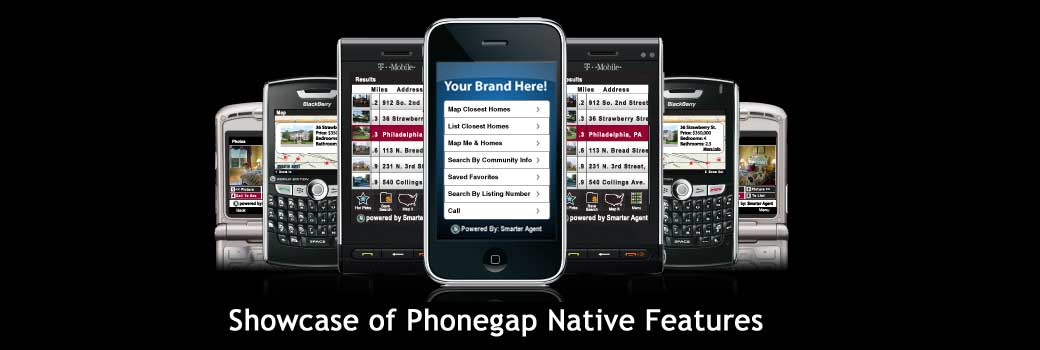
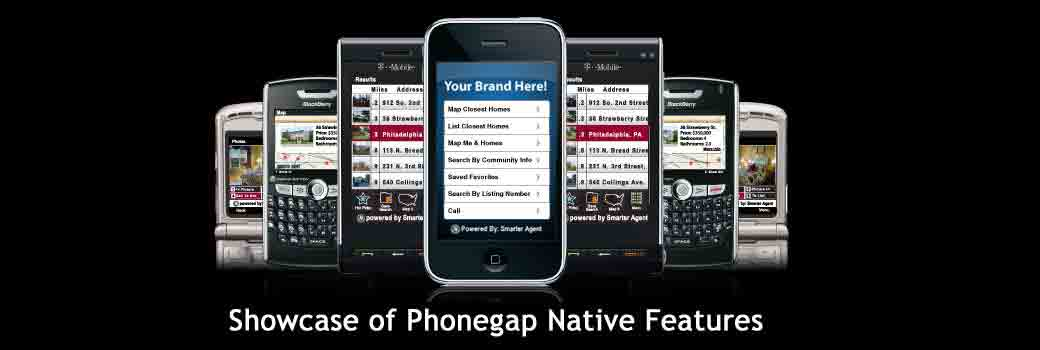
optimized images / fix profile pic

diff --git a/AVF/new/index.html b/AVF/new/index.html
@@ -20,7 +20,7 @@
                 </section>
                 <div class="individual">
                     <ul class="rounded">
-                        <li><img src="images/profile.png" alt="" /><h3>Mark Evans</h3><p>AVF 1203</p></li>
+                        <li><img src="images/profile.jpg" alt="" /><h3>Mark Evans</h3><p>AVF 1203</p></li>
                     </ul>
                 </div>
                 <section id="apps">
